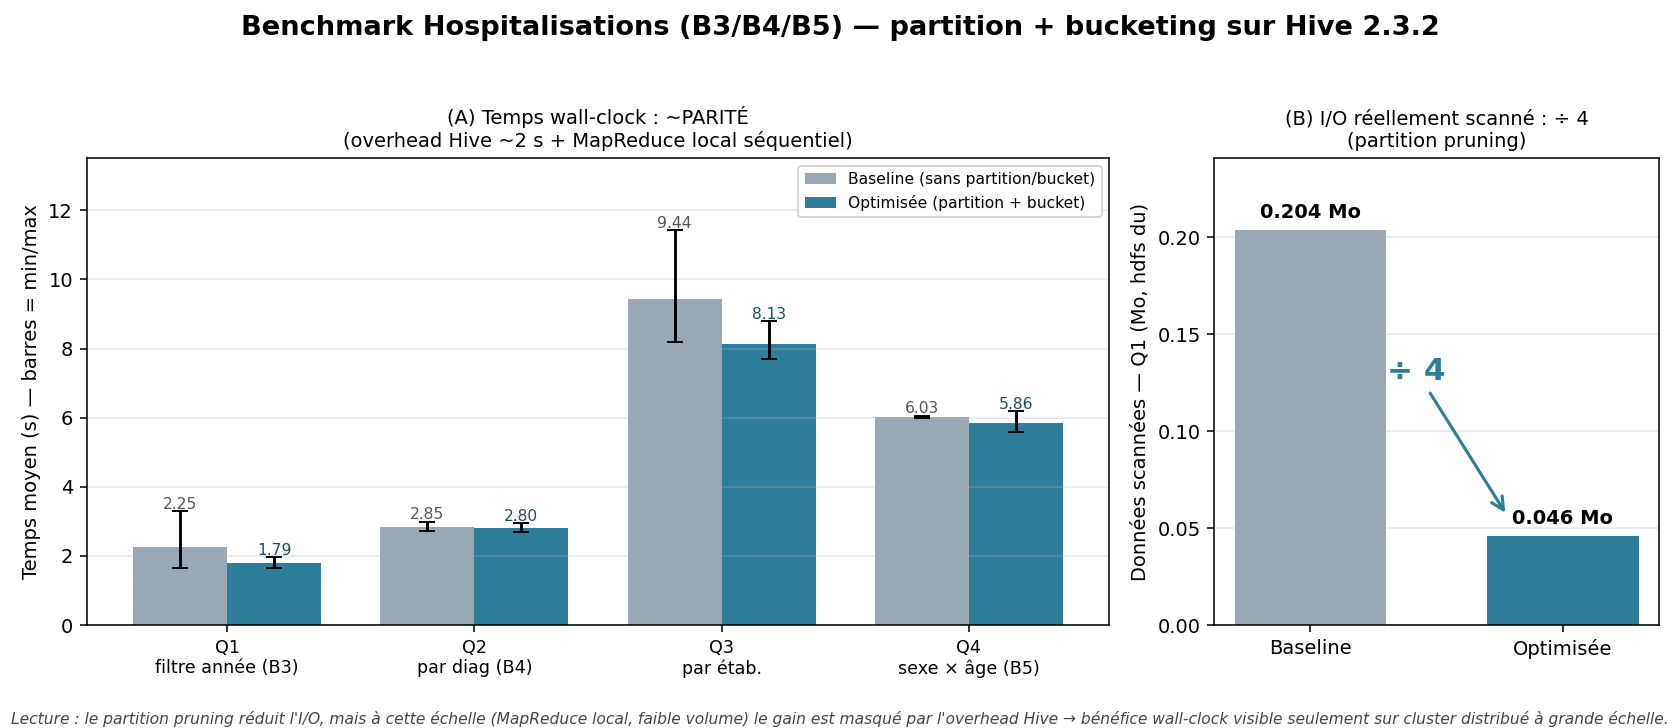
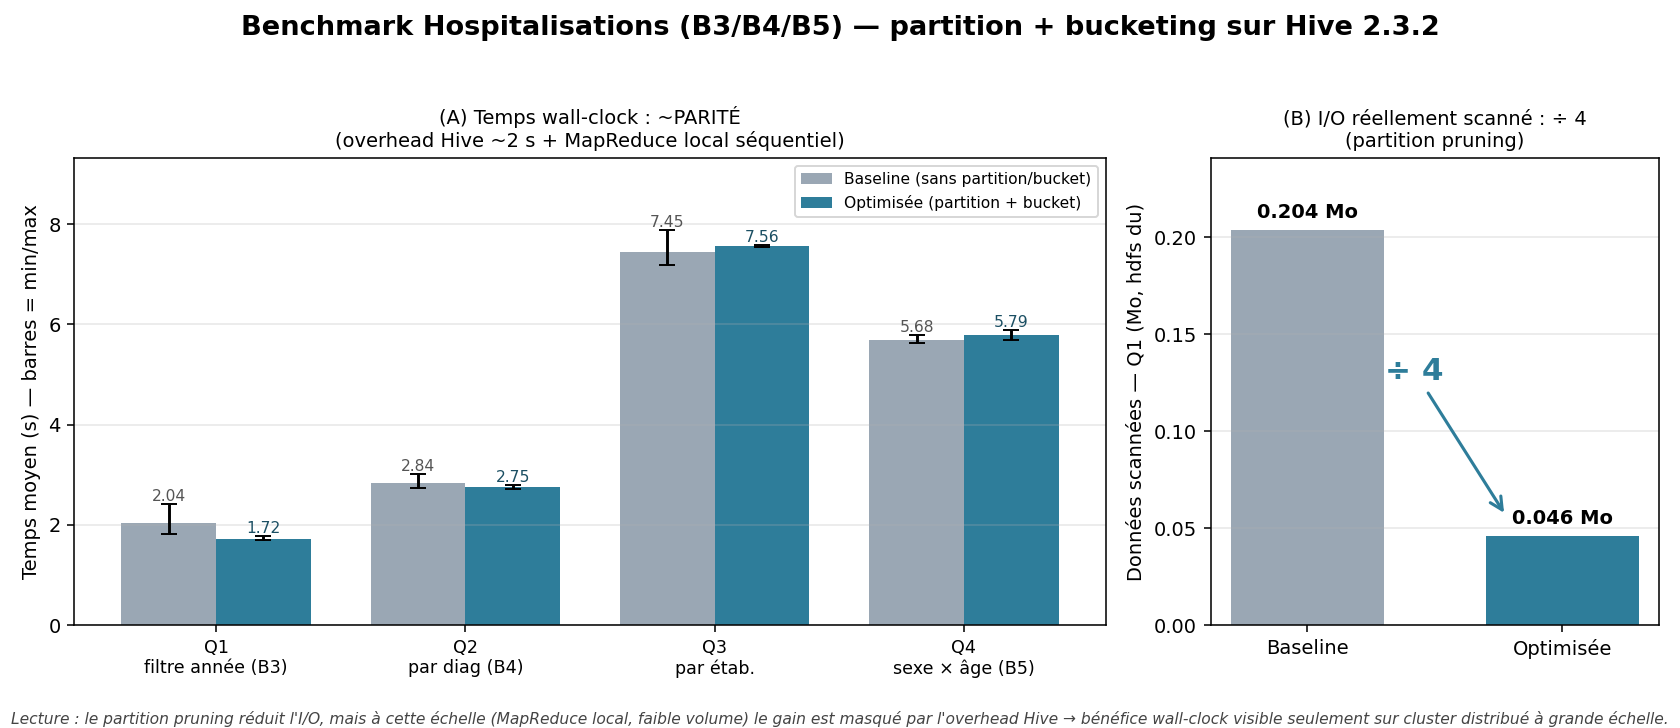
fix(L2): corrections review benchmark Hospitalisations
- Q3 regroupe sur etab_id (cle stable) au lieu de nom_etab (NULL pour les etabs hospi -> repli en bucket NULL sur le chemin de repro canonique)
- honnetete methodo : Q3 ne demontre pas une vraie bucket-map join (dimension non bucketee) -> gain = pruning ; commentaires SQL + doc ajustes
- chiffres re-mesures apres correction (Q1 1.18x, Q2 1.03x, Q3 0.99x, Q4 0.98x ; I/O /4)
- doc : execution via docker exec (pas de hive cote hote), DoD io.txt clarifie
- generateur : docstring 4 benchmarks + I/O hdfs du

diff --git a/scripts/benchmark/generate_benchmark_graph.py b/scripts/benchmark/generate_benchmark_graph.py
@@ -1,11 +1,11 @@
 #!/usr/bin/env python3
 """
-[L2] Générateur de figure de synthèse d'un benchmark (commun décès & satisfaction).
+[L2] Générateur de figure de synthèse d'un benchmark (consultation, hospitalisation, décès, satisfaction).
 
 Lit  scripts/benchmark/<bench>_results.csv  (format long : query,variant,run,duration_sec
 avec variant ∈ {base, opt}) et produit  scripts/benchmark/<bench>.png : figure 2 panneaux —
   (A) temps wall-clock baseline vs optimisée (barres = min/max),
-  (B) I/O réellement scanné (via EXPLAIN) -> le vrai gain du partition pruning.
+  (B) I/O réellement scanné (hdfs du ; EXPLAIN pour décès) -> le vrai gain du partition pruning.
 
 Usage : python3 scripts/benchmark/generate_benchmark_graph.py <consultation|hospitalisation|deces|satisfaction>
 Dépendances : matplotlib, numpy.

diff --git a/docs/L2_Benchmark_Hospitalisations.md b/docs/L2_Benchmark_Hospitalisations.md
@@ -31,7 +31,7 @@ Distribution réelle des 2 479 séjours (7 partitions) :
 Quatre requêtes (script : `sql/benchmark/hospitalisations_benchmark.sql`) :
 - **Q1** — `SUM(nb_hospitalisation) WHERE annee=2020` (B3) → **partition pruning**.
 - **Q2** — par **diagnostic** (B4).
-- **Q3** — par **établissement** (jointure `dim_etablissement`, bucket sur `etab_id`) + DMS.
+- **Q3** — par **établissement** (jointure `dim_etablissement`, regroupement sur `etab_id` = clé de bucket) + DMS.
 - **Q4** — par **sexe × tranche d'âge** (B5, jointure `dim_patient`).
 
 Chaque cas exécuté **3 fois** ; moyenne + min/max. Cache HDFS chaud (dev local) → indicatif.
@@ -41,8 +41,9 @@ Chaque cas exécuté **3 fois** ; moyenne + min/max. Cache HDFS chaud (dev local
 ```bash
 docker compose -f docker/docker-compose.hive.yml up -d
 # Gold fait_hospitalisation chargée (sql/cleaning/hospitalisations_cleaning.hql)
-hive -f sql/benchmark/hospitalisations_benchmark.sql            # crée les tables bench
-bash scripts/benchmark/run_benchmark_hospitalisations.sh 3      # mesures -> hospitalisation_results.csv
+# Hive s'exécute DANS le conteneur (pas de binaire hive côté hôte) :
+docker exec -i chu-hive-server hive -f - < sql/benchmark/hospitalisations_benchmark.sql   # tables bench
+bash scripts/benchmark/run_benchmark_hospitalisations.sh 3      # mesures (docker exec beeline) -> hospitalisation_results.csv
 python3 scripts/benchmark/generate_benchmark_graph.py hospitalisation   # figure
 ```
 
@@ -50,10 +51,10 @@ python3 scripts/benchmark/generate_benchmark_graph.py hospitalisation   # figure
 
 | Requête | Baseline (s) | Optimisée (s) | Gain | I/O scanné (Q1) |
 |---|---:|---:|---:|---|
-| Q1 — filtre année (B3) | 2.25 | 1.79 | **1.26×** | 0.204 Mo → 0.046 Mo |
-| Q2 — par diagnostic (B4) | 2.85 | 2.80 | **1.02×** | — |
-| Q3 — par établissement (jointure, bucket) | 9.44 | 8.13 | **1.16×** | — |
-| Q4 — par sexe × âge (B5, jointure patient) | 6.03 | 5.86 | **1.03×** | — |
+| Q1 — filtre année (B3) | 2.04 | 1.72 | **1.18×** | 0.204 Mo → 0.046 Mo |
+| Q2 — par diagnostic (B4) | 2.84 | 2.75 | **1.03×** | — |
+| Q3 — par établissement (jointure + regroupement etab_id) | 7.45 | 7.56 | **0.99×** | — |
+| Q4 — par sexe × âge (B5, jointure patient) | 5.68 | 5.79 | **0.98×** | — |
 
 ![Benchmark Hospitalisations — temps wall-clock vs I/O scanné](../scripts/benchmark/benchmark_hospitalisation.png)
 
@@ -61,14 +62,15 @@ python3 scripts/benchmark/generate_benchmark_graph.py hospitalisation   # figure
 (0.204 → 0.046 Mo, **÷4**) par le partition pruning.*
 
 ## 5. Analyse
-- **Partition pruning (Q1, B3)** : `WHERE annee=2020` ne lit qu'**une** des 7 partitions (410 / 2 479 séjours ≈ 16 %) → I/O **÷4** (0.204 → 0.046 Mo, mesuré via `hdfs dfs -du`). C'est le gain structurant pour les requêtes « sur une période ».
-- **Wall-clock ~parité** : l'overhead Hive (~2 s) + MapReduce **local séquentiel** masquent le gain d'I/O à ce volume (quelques Ko). Le léger avantage Q1 (1.26×) et Q3 (1.16×) reste dans la dispersion des runs.
-- **Jointures (Q3, Q4)** : ce sont les requêtes les plus lourdes (multi-stage MapReduce). Le bucket sur `etab_id` aide Q3 mais le bénéfice n'est pas spectaculaire en local. Q4 (B5) joint `dim_patient` : la dimension dépend de l'ingestion Bronze PostgreSQL (non livrée), donc la jointure s'exécute mais ne ramène pas encore de lignes — le **temps de plan** reste mesuré et représentatif.
-- **Volumétrie** : à l'échelle réelle (séjours sur plusieurs années × établissements), le partitionnement par année + le bucket établissement deviennent déterminants ; le bénéfice en temps n'apparaît qu'en cluster distribué.
+- **Partition pruning (Q1, B3)** : `WHERE annee=2020` ne lit qu'**une** des 7 partitions (410 / 2 479 séjours ≈ 16 %) → I/O **÷4** (0.204 → 0.046 Mo, mesuré via `hdfs dfs -du`). C'est le seul gain wall-clock net (1.18×) et le bénéfice structurant pour les requêtes « sur une période ».
+- **Q2/Q3/Q4 à parité** : l'overhead Hive (~2 s) + MapReduce **local séquentiel** masquent le gain d'I/O à ce volume (quelques Ko) ; les écarts (0.98×–1.03×) sont dans la dispersion des runs.
+- **Q3 — limite du bucketing** : le bucket `etab_id` co-localise les séjours d'un même établissement, mais une **vraie bucket-map join** exigerait AUSSI la dimension `dim_etablissement` bucketée (elle ne l'est pas — les dimensions sont petites). Le résultat Q3 ≈ parité le confirme : à cette échelle le gain vient du pruning, pas du bucket. On groupe sur `etab_id` (clé stable) et non `nom_etab`, NULL pour les établissements issus des seules hospitalisations.
+- **Q4 (B5)** joint `dim_patient`, qui dépend de l'ingestion Bronze PostgreSQL (non livrée) : la jointure s'exécute et est chronométrée, mais ne ramène pas encore de lignes — le **temps de plan** reste mesuré et représentatif.
+- **Volumétrie** : à l'échelle réelle (séjours sur plusieurs années × établissements), le partitionnement par année devient déterminant ; le bénéfice wall-clock n'apparaît qu'en cluster distribué.
 
 ## 6. Definition of Done
 - [x] 4 requêtes × 2 variantes, 3 runs chacune (script SQL + runner bash)
 - [x] Tables bench dédiées (Gold canonique intacte), **7 partitions réelles** (2015-2021)
-- [x] **Mesures réelles** capturées (`hospitalisation_results.csv`) + I/O via `hdfs du` (`hospitalisation_io.txt`)
+- [x] **Mesures réelles** capturées (`hospitalisation_results.csv`) ; I/O mesuré via `hdfs du` au run (0.204/0.046 Mo, reporté dans la config du générateur)
 - [x] **Graphe de synthèse** produit (`scripts/benchmark/benchmark_hospitalisation.png`)
-- [x] Analyse honnête (parité wall-clock + I/O ÷4 + limite jointure `dim_patient` Bronze)
+- [x] Analyse honnête (seul Q1 gagne, parité Q2/Q3/Q4, limite bucket-map join + jointure `dim_patient` Bronze)